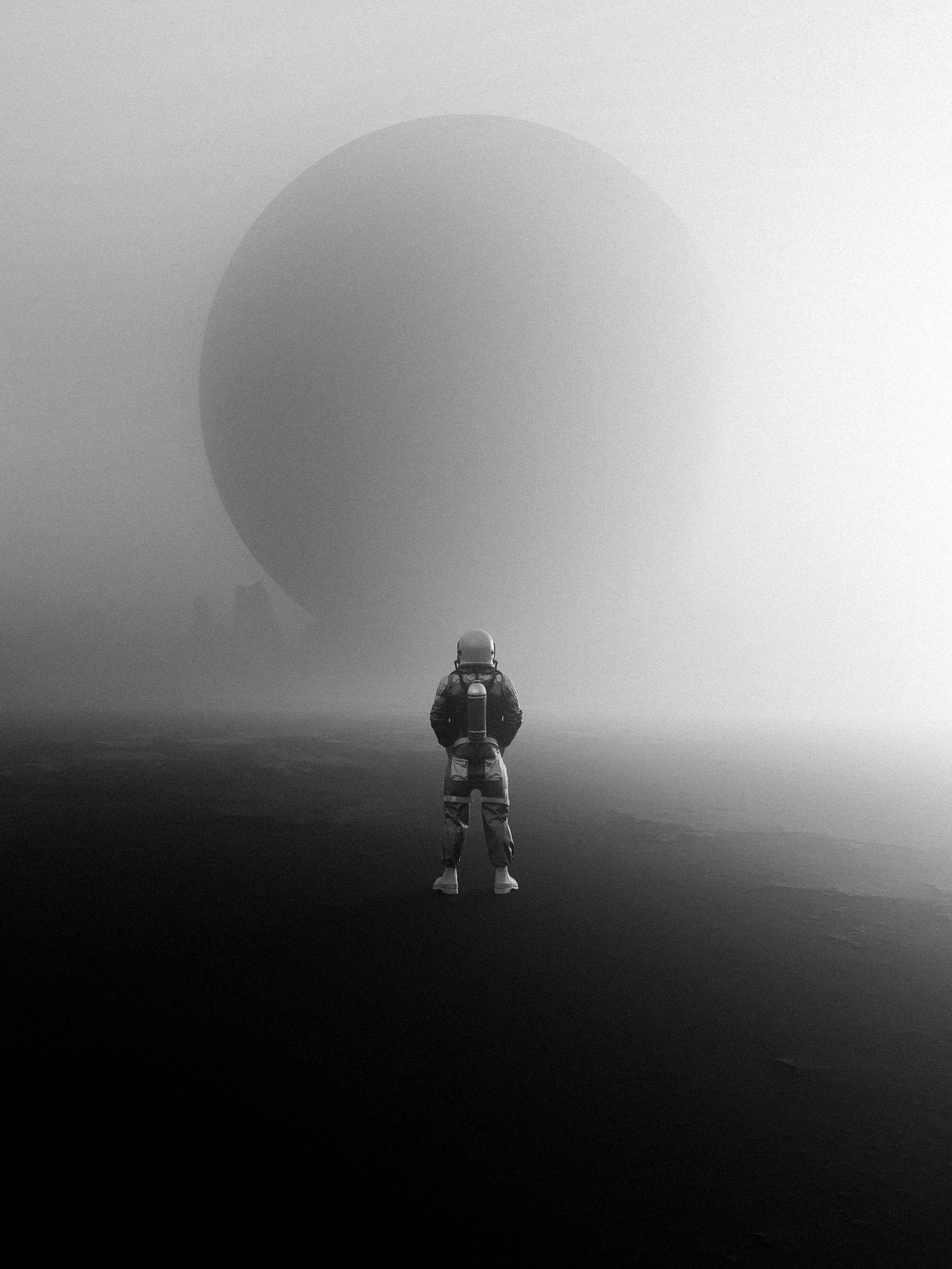
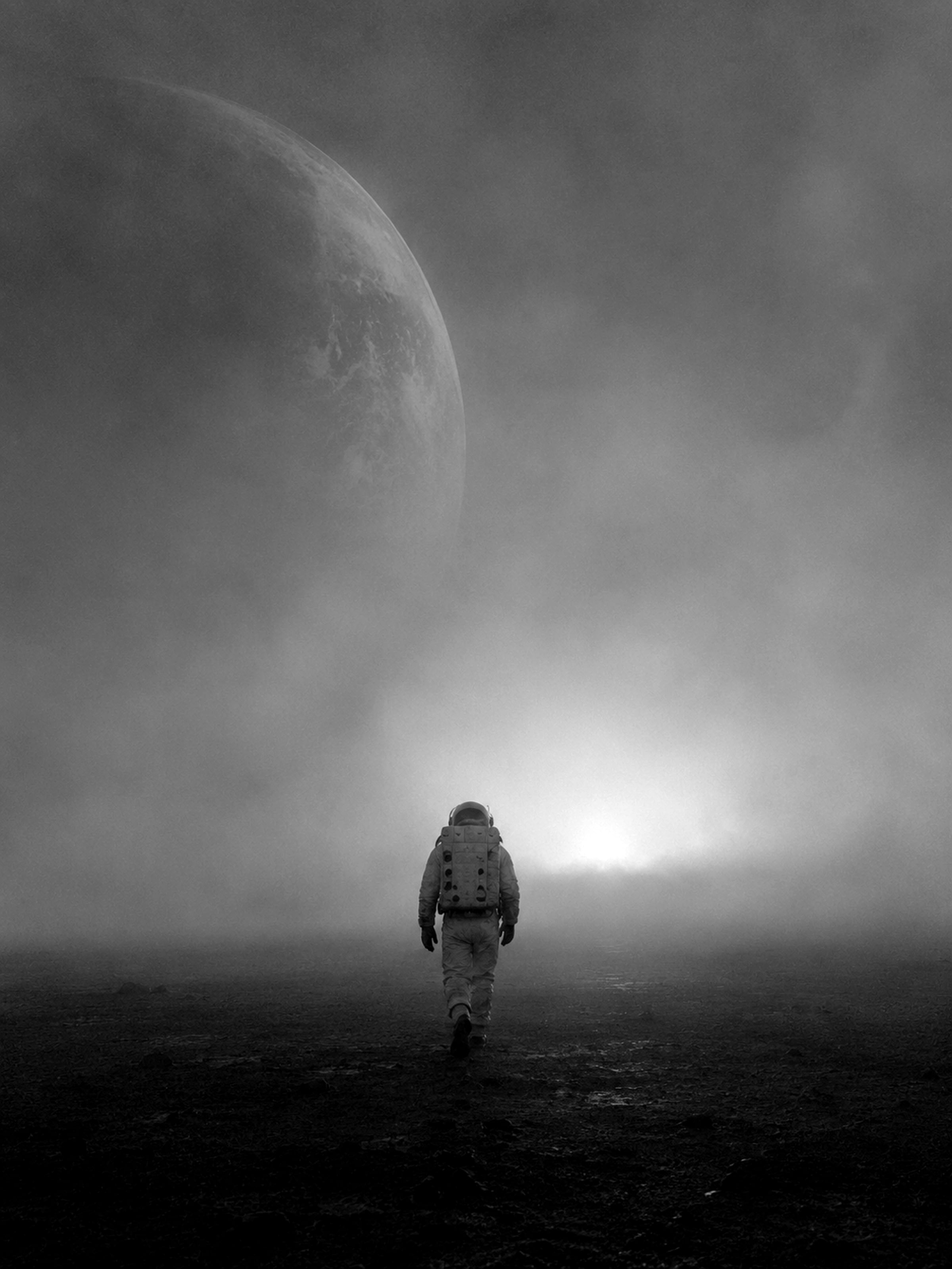
feat(stage): 背中のシーン（写真B）をAI生成のオリジナル画像に差し替え
- 写真Bを、画像生成AIで作った「霧の奥の惑星へ歩く背中」に変更（assets-src/ai-walk.png）。
  元が1086pxのため、書き出し時に2倍へ拡大（lanczos3）
- 横長の画面は縦78%で切り取り、歩く全身と奥の光を入れる。奥へ寄る起点も背中と光に合わせる
- 夜明けの光を、新しい写真の地平線が光る位置へ（PC 60%/57%、スマホ 66%/68%）
- lintの対象から、別セッションの作業コピー（.claude/）とgit管理外の素材（assets-src/）を外す
- DESIGN.md の素材の記述を更新

diff --git a/app/globals.css b/app/globals.css
@@ -145,10 +145,12 @@ body {
 .scene-b {
   opacity: var(--t);
   transform: scale(calc(1.14 - var(--t) * 0.14 + var(--walk) * 0.22));
-  transform-origin: 50% 58%;
+  /* 寄っていく先は、宇宙飛行士の背中とその奥の光 */
+  transform-origin: 50% 72%;
 }
+/* 横長の画面では、歩く全身と奥の光が入る高さで切り取る（惑星は縦長の画面でだけ見える） */
 .scene-b .scene-img {
-  object-position: 50% 60%;
+  object-position: 50% 78%;
 }
 
 /* 読み込めた写真からフェードイン（JSが動く環境だけ隠しておく） */
@@ -165,11 +167,20 @@ body {
   position: absolute;
   inset: 0;
   opacity: var(--dawn);
-  /* 地平線（宇宙飛行士の背後）から横に広がる光の帯。screenで重ねて、写真の暗部は濁らせない */
+  /* 地平線（宇宙飛行士の右奥で霧が光っているところ）から横に広がる光の帯。
+     screenで重ねて、写真の暗部は濁らせない。位置は写真Bの光の位置に合わせる */
+  --dawn-x: 66%;
+  --dawn-y: 68%;
   background:
-    radial-gradient(ellipse 95% 16% at 50% 47%, rgba(255, 122, 61, 0.55), transparent 70%),
-    radial-gradient(ellipse 140% 40% at 50% 44%, rgba(255, 122, 61, 0.18), transparent 70%);
+    radial-gradient(ellipse 95% 16% at var(--dawn-x) var(--dawn-y), rgba(255, 122, 61, 0.55), transparent 70%),
+    radial-gradient(ellipse 140% 40% at var(--dawn-x) calc(var(--dawn-y) - 3%), rgba(255, 122, 61, 0.18), transparent 70%);
   mix-blend-mode: screen;
+}
+@media (min-width: 768px) {
+  .dawn {
+    --dawn-x: 60%;
+    --dawn-y: 57%;
+  }
 }
 
 /* 霧：横に継ぎ目なくループするテクスチャ（scripts/prepare-images.mjs）を2層、速さを変えて流す */

diff --git a/DESIGN.md b/DESIGN.md
@@ -4,7 +4,7 @@
 
 ## コンセプト
 
-霧の中の宇宙飛行士。光の柱を背に身を潜める（写真A）→ スクロールで霧の奥の惑星へ、背中で進んでいく（写真B）。
+霧の中の宇宙飛行士。光の柱の間に立つ（写真A）→ スクロールで霧の奥の惑星へ、背中で進んでいく（写真B）。
 人物サイト（ポートフォリオ）として、**最初の画面で「誰が・何をしている人か」まで言い切る**。
 
 ## 構成（1ページ）
@@ -64,5 +64,8 @@
 
 ## 素材
 
-- 写真A・B：Alex Shuper（Unsplash License）。元データは `assets-src/`（git管理外）、`node scripts/prepare-images.mjs` で `public/images/` と `app/opengraph-image.jpg` を書き出す
-- フッターに「PHOTOS: ALEX SHUPER / UNSPLASH」を残す
+- 写真A（柱）：Alex Shuper（Unsplash License）。フッターに「PHOTOS: ALEX SHUPER / UNSPLASH」を残す
+- 写真B（背中）：画像生成AIで作ったオリジナル（`assets-src/ai-walk.png`、1086px）。書き出し時に2倍へ拡大する
+  - 横長の画面は縦78%の位置で切り取る（歩く全身と奥の光が入る。惑星は縦長の画面でだけ見える）
+  - 夜明けの光（`.dawn`）は、写真Bの地平線が光っている位置に合わせる（PC 60%/57%、スマホ 66%/68%）
+- 元データは `assets-src/`（git管理外）。`node scripts/prepare-images.mjs` で `public/images/` と `app/opengraph-image.jpg` を書き出す
